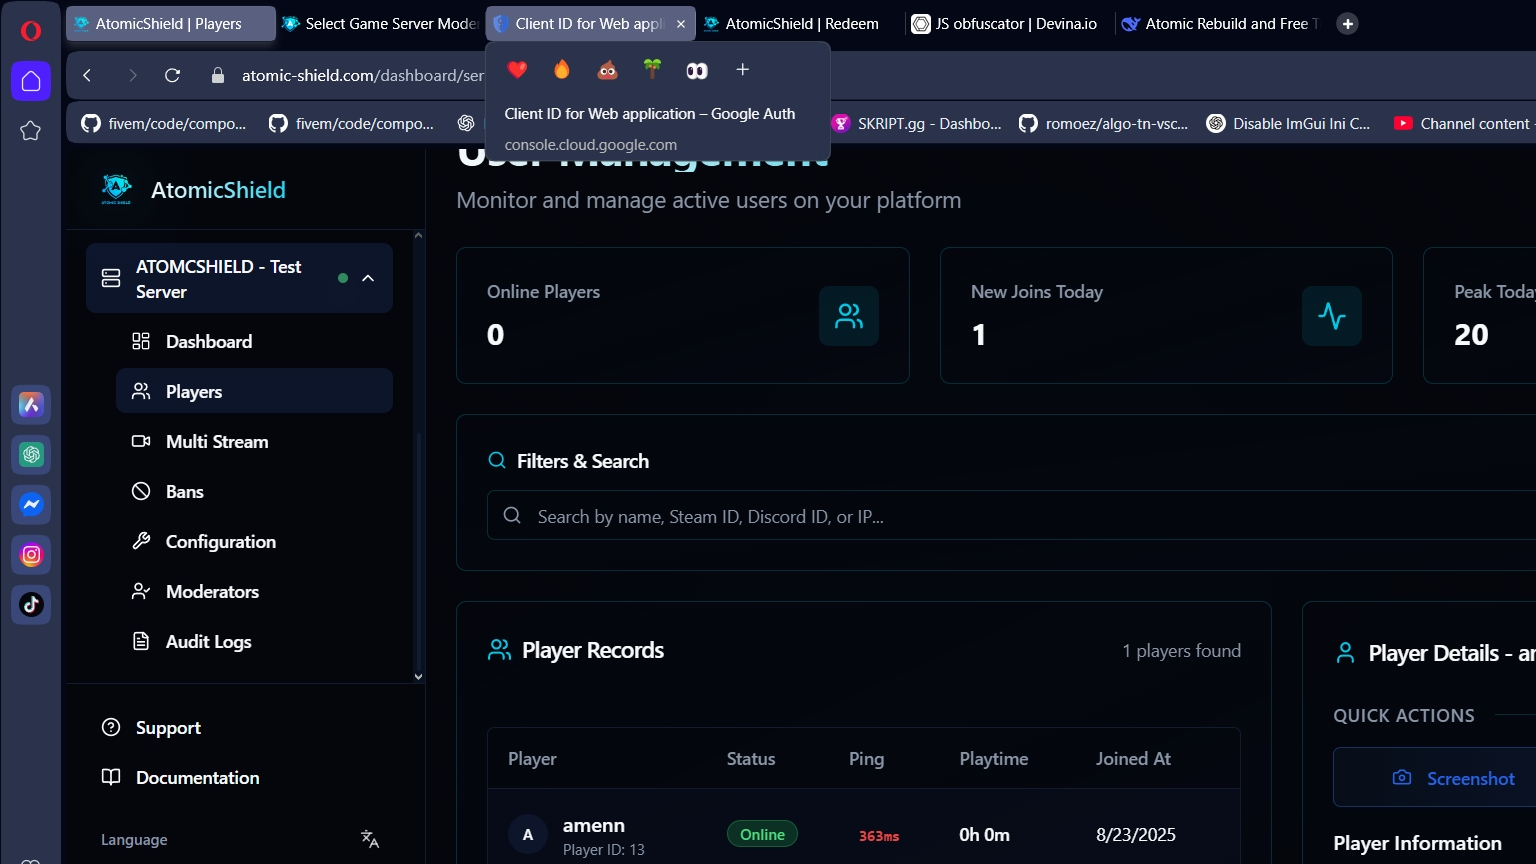
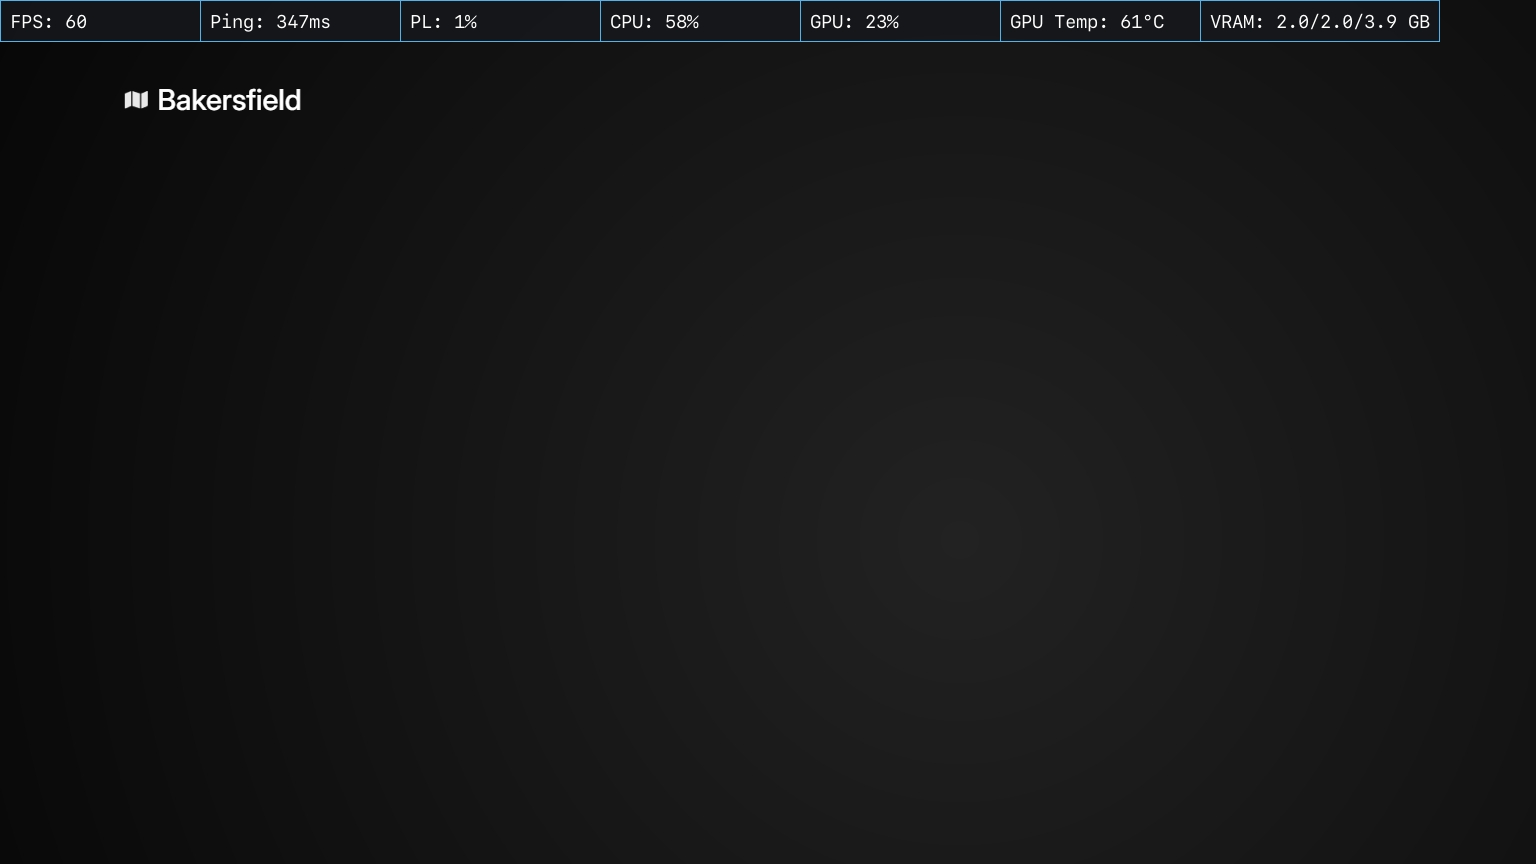
fixes

diff --git a/src/dashboard/views.py b/src/dashboard/views.py
@@ -234,7 +234,7 @@ def dashboard_overview(request: HttpRequest) -> Response:
         {
             "id": server.id,
             "name": server.name,
-            "description": "Server Description",
+            "description": f"{Ban.objects.filter(game_server=server).count()} bans",
             "playerCount": server.active_player_count,
             "status": "Online" if server.is_online else "Offline",
             "statusColor": "green" if server.is_online else "gray",
@@ -253,7 +253,7 @@ def dashboard_overview(request: HttpRequest) -> Response:
     recent_activities_data = [
         {
             "action": event.get_action_display(),
-            "user": event.target_username or f"By {event.actor_username}",
+            "user": event.target_username or f"By {event.actor_username or event.source}",
             "time": event.timestamp.strftime("%Y-%m-%d %H:%M:%S"),
             "severity": event.get_severity_display().lower(),
         }

diff --git a/src/anticheat/handlers/safe_engine.py b/src/anticheat/handlers/safe_engine.py
@@ -415,6 +415,7 @@ async def handle_cheat_detection(consumer: SafeEngineConsumer, request: Dict[str
                 action=AuditLogEntry.Action.CHEAT_DETECTED,
                 severity=AuditLogEntry.Severity.CRITICAL,
                 game_server=consumer.connected_server.game_server,
+                target_object=consumer.hwid if consumer else None,
                 summary="Player Cheating Activity Detected",
                 details=f"A Cheating behaviour detected on {consumer.hwid.username} ({request['report']['kick_message'] or 'Unknown'})",
                 category=AuditLogEntry.Category.PLAYER